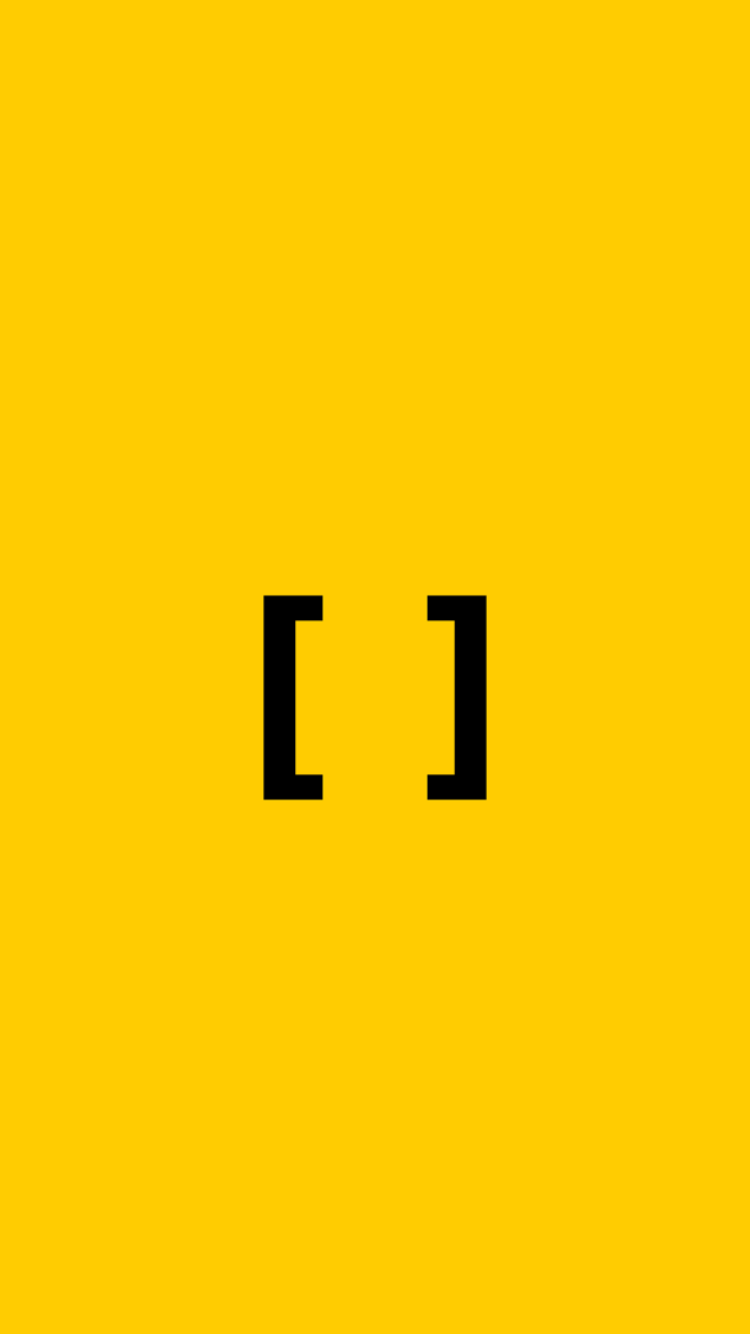
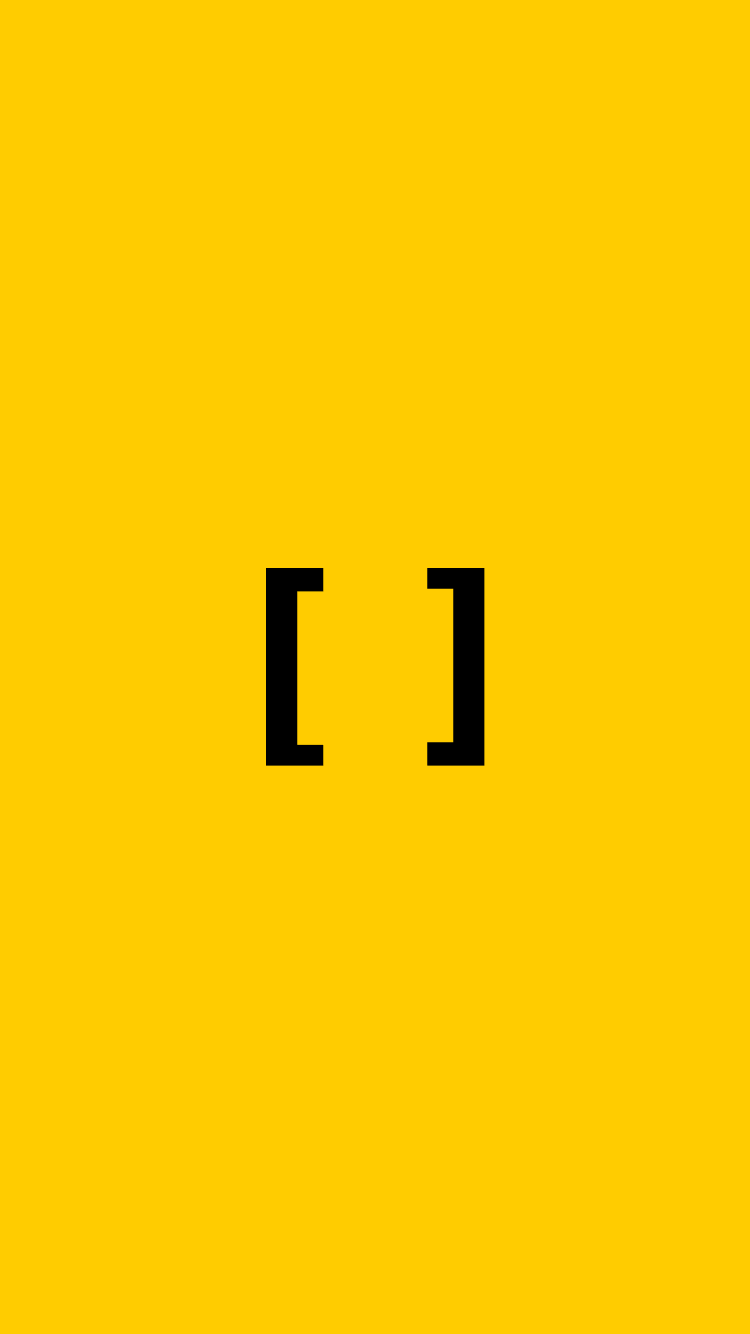
Add splash screens to iOS & iPadOS devices

Changed region(s): [[0.3373, 0.3996, 0.4293, 0.6147], [0.552, 0.3996, 0.6747, 0.6147]]

diff --git a/index.html b/index.html
@@ -6,11 +6,59 @@
     <meta name="apple-mobile-web-app-capable" content="yes" />
     <meta name="apple-mobile-web-app-title" content="Blueprints" />
     <meta name="apple-mobile-web-app-status-bar-style" content="white" />
-    <!-- iPhone 7 -->
+    <!-- iPhone Xs Max (1242px x 2688px) -->
+    <link
+      rel="apple-touch-startup-image"
+      media="(device-width: 414px) and (device-height: 896px) and (-webkit-device-pixel-ratio: 3)"
+      href="/apple-launch-1242x2688.png"
+    />
+    <!-- iPhone Xr (828px x 1792px) -->
+    <link
+      rel="apple-touch-startup-image"
+      media="(device-width: 414px) and (device-height: 896px) and (-webkit-device-pixel-ratio: 2)"
+      href="/apple-launch-828x1792.png"
+    />
+    <!-- iPhone X, Xs (1125px x 2436px) -->
+    <link
+      rel="apple-touch-startup-image"
+      media="(device-width: 375px) and (device-height: 812px) and (-webkit-device-pixel-ratio: 3)"
+      href="/apple-launch-1125x2436.png"
+    />
+    <!-- iPhone 8 Plus, 7 Plus, 6s Plus, 6 Plus (1242px x 2208px) -->
+    <link
+      rel="apple-touch-startup-image"
+      media="(device-width: 414px) and (device-height: 736px) and (-webkit-device-pixel-ratio: 3)"
+      href="/apple-launch-1242x2208.png"
+    />
+    <!-- iPhone 8, 7, 6s, 6 (750px x 1334px) -->
     <link
       rel="apple-touch-startup-image"
       media="(device-width: 375px) and (device-height: 667px) and (-webkit-device-pixel-ratio: 2)"
       href="/apple-launch-750x1334.png"
+    />
+    <!-- iPad Pro 12.9" (2048px x 2732px) -->
+    <link
+      rel="apple-touch-startup-image"
+      media="(device-width: 1024px) and (device-height: 1366px) and (-webkit-device-pixel-ratio: 2)"
+      href="/apple-launch-2048x2732.png"
+    />
+    <!-- iPad Pro 11” (1668px x 2388px) -->
+    <link
+      rel="apple-touch-startup-image"
+      media="(device-width: 834px) and (device-height: 1194px) and (-webkit-device-pixel-ratio: 2)"
+      href="/apple-launch-1668x2388.png"
+    />
+    <!-- iPad Pro 10.5" (1668px x 2224px) -->
+    <link
+      rel="apple-touch-startup-image"
+      media="(device-width: 834px) and (device-height: 1112px) and (-webkit-device-pixel-ratio: 2)"
+      href="/apple-launch-1668x2224.png"
+    />
+    <!-- iPad Mini, Air (1536px x 2048px) -->
+    <link
+      rel="apple-touch-startup-image"
+      media="(device-width: 768px) and (device-height: 1024px) and (-webkit-device-pixel-ratio: 2)"
+      href="/apple-launch-1536x2048.png"
     />
 
     <link rel="apple-touch-icon" sizes="180x180" href="/apple-touch-icon.png" />
